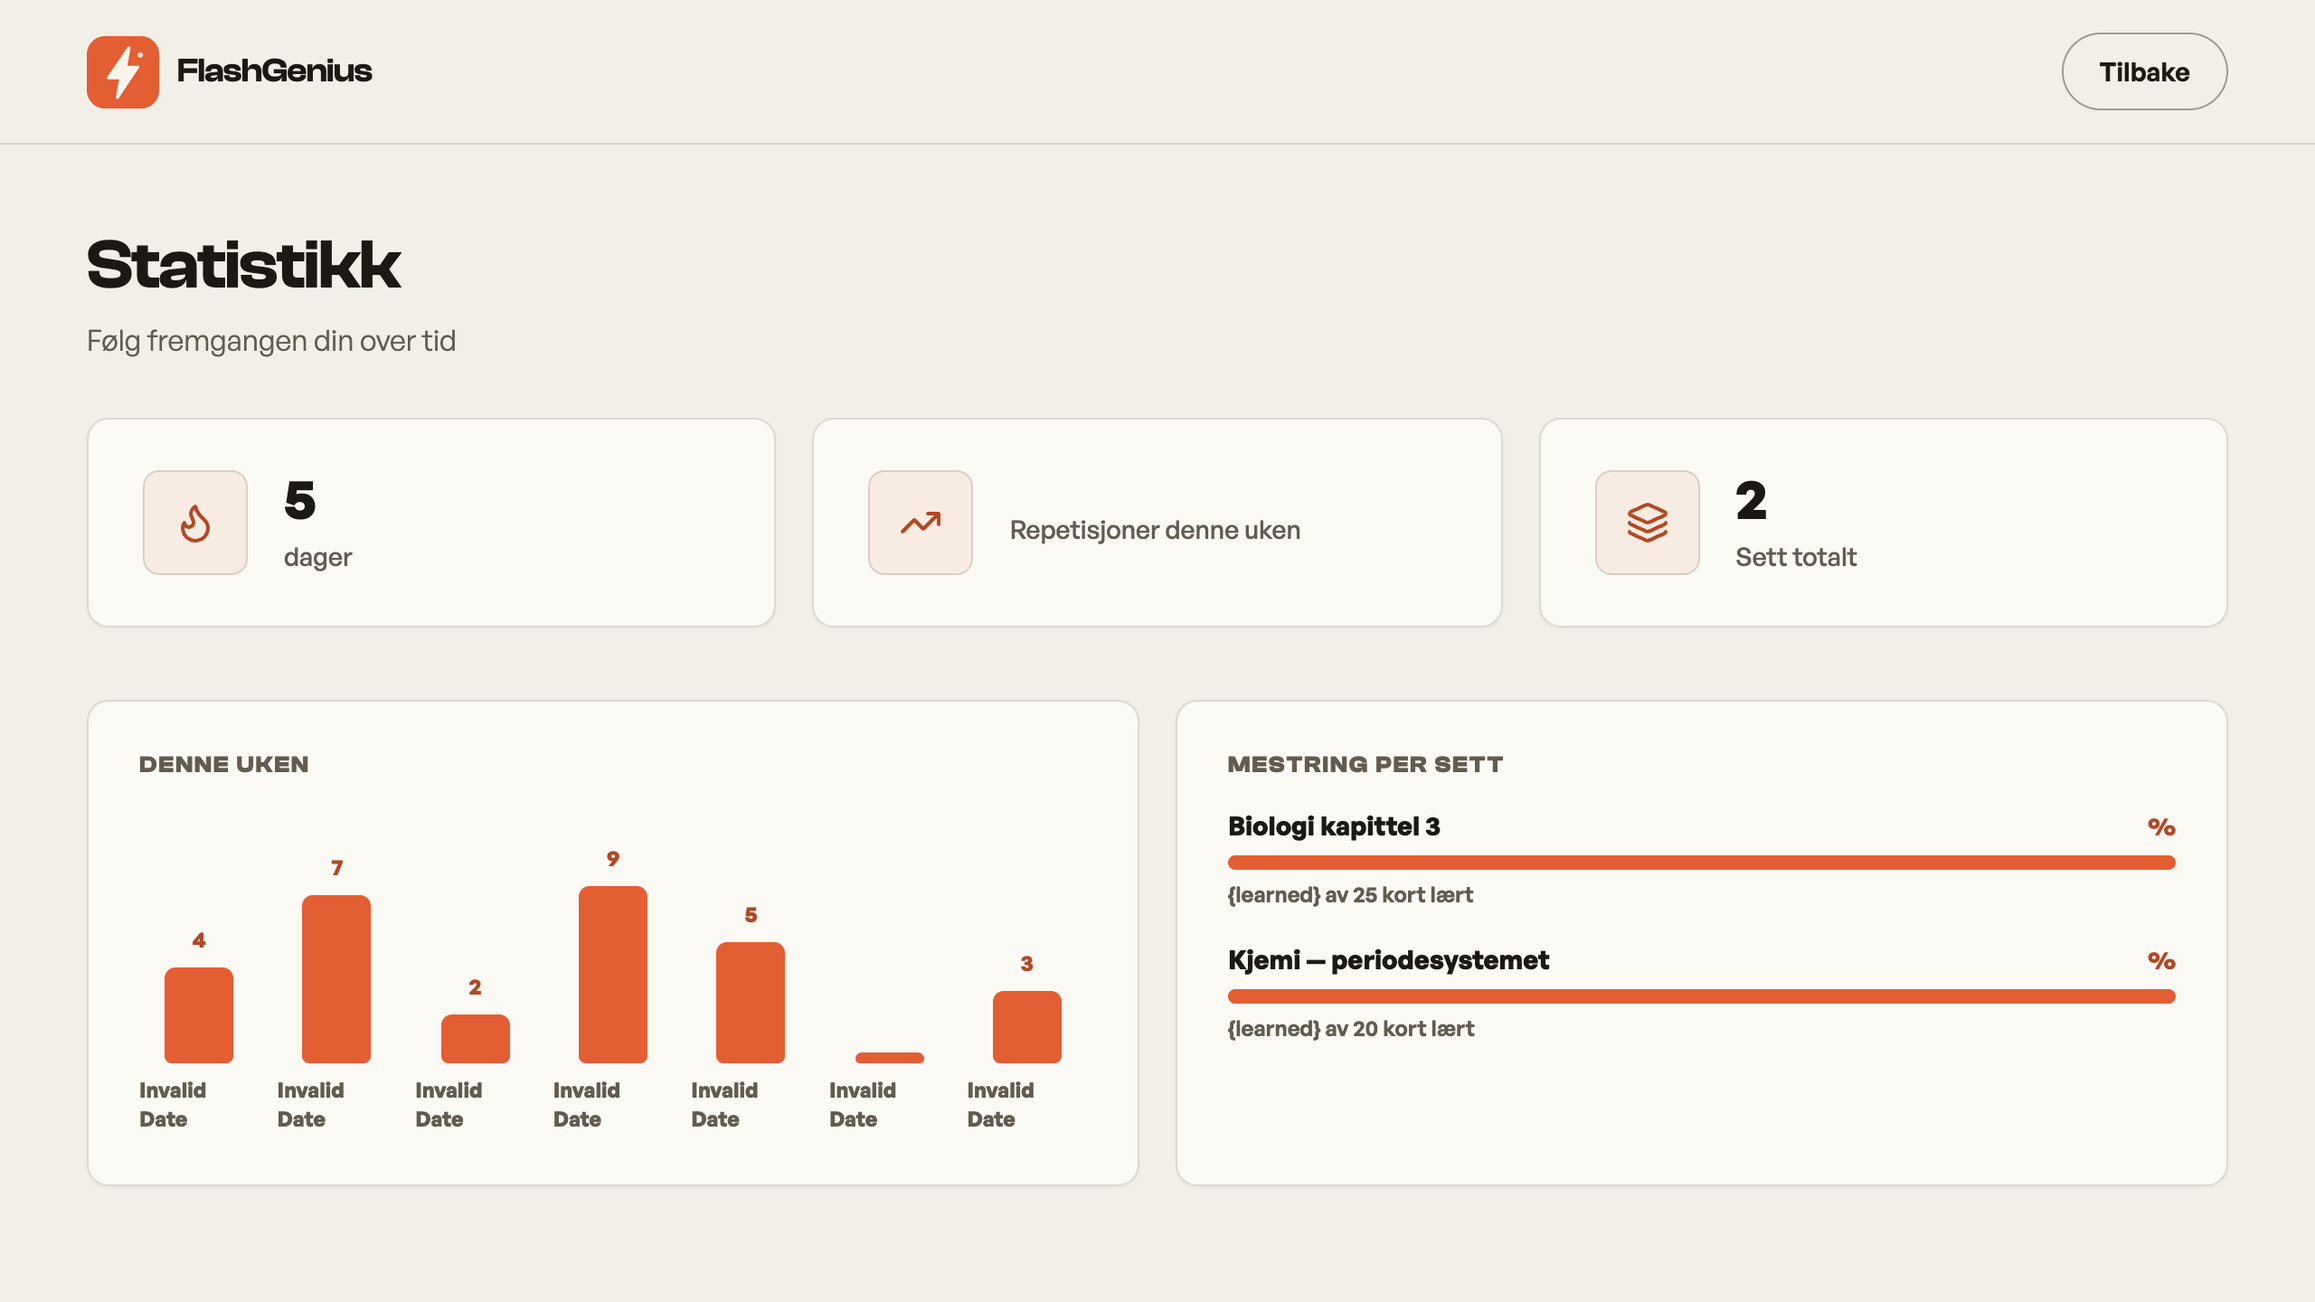
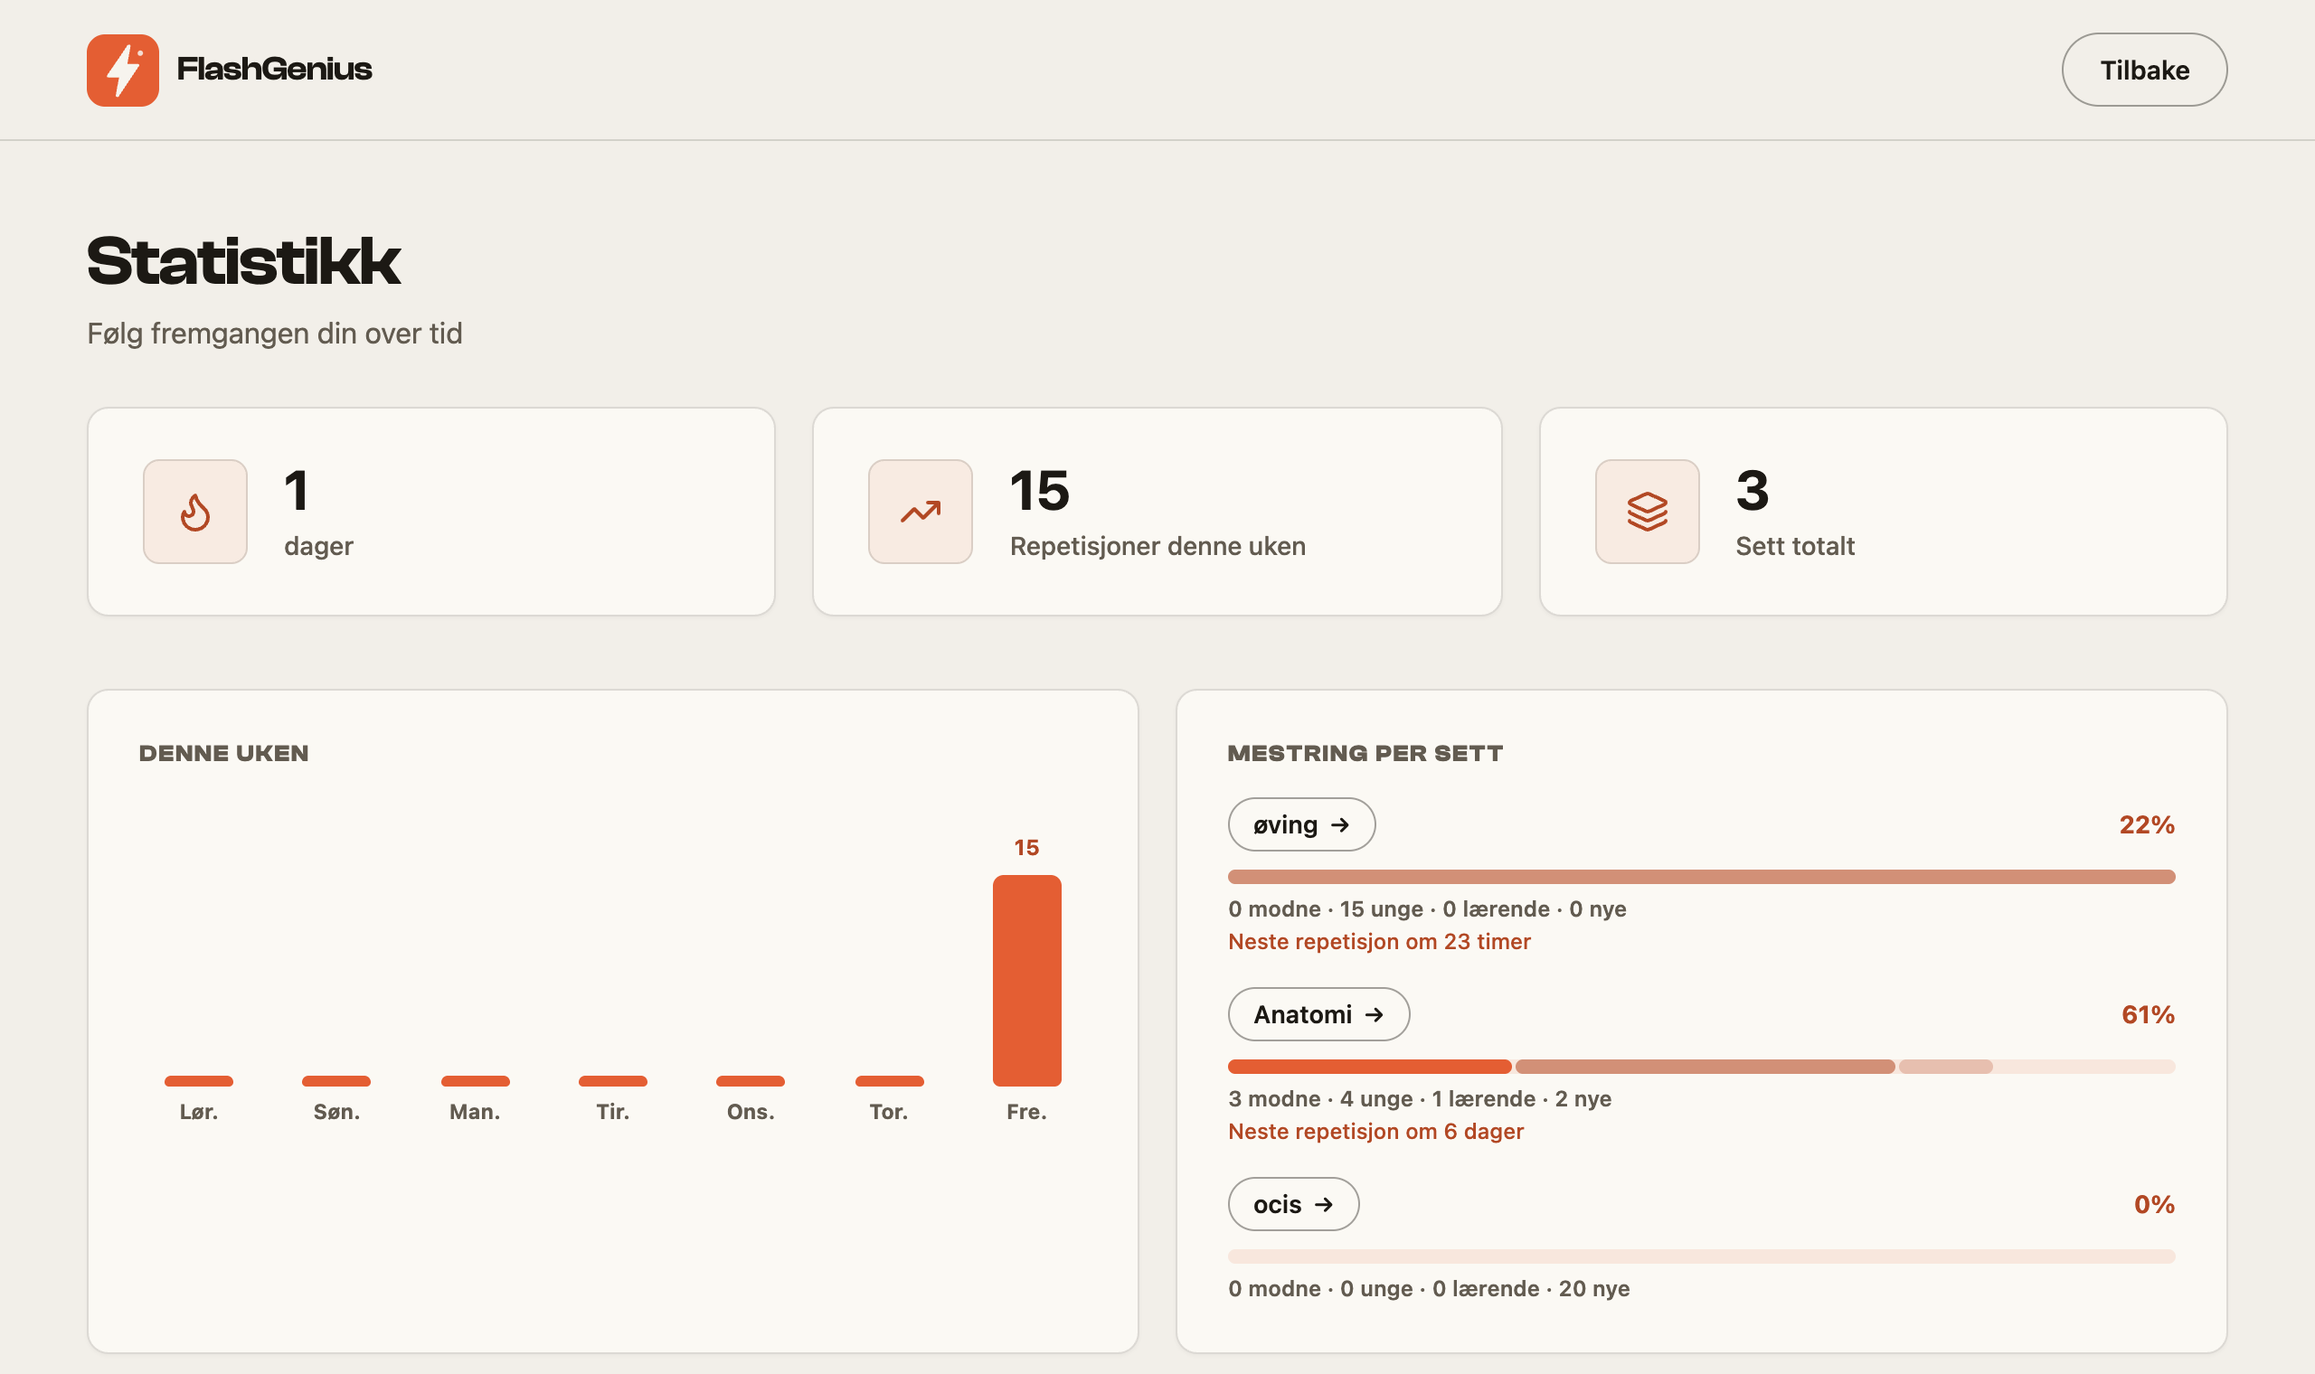
updated the statistics so it works better and more convenient for users

diff --git a/frontend/src/pages/Stats.jsx b/frontend/src/pages/Stats.jsx
@@ -7,6 +7,7 @@ import Footer from "../components/Footer";
 import { ViewerSkeleton } from "../components/Skeleton";
 import api from "../api";
 import { useLang } from "../i18n";
+import { dueIn } from "../dueTime";
 
 export default function Stats() {
     const { t, lang } = useLang();
@@ -108,15 +109,34 @@ export default function Stats() {
                                                     <Link to={`/smart/${deck.deck_id}`} className="mastery-title">{deck.title}</Link>
                                                     <span className="mastery-pct">{deck.pct}%</span>
                                                 </div>
-                                                <div className="mastery-track">
-                                                    <motion.div
-                                                        className="mastery-fill"
-                                                        initial={{ width: 0 }}
-                                                        animate={{ width: `${deck.pct}%` }}
-                                                        transition={{ delay: 0.2 + i * 0.07, duration: 0.6, ease: [0.16, 1, 0.3, 1] }}
-                                                    />
+                                                <div className="mastery-track" title={t("statsMatureHint")}>
+                                                    {["mature", "young", "learning"].map((band, b) => {
+                                                        const n = deck[band] || 0;
+                                                        if (!n) return null;
+                                                        return (
+                                                            <motion.div
+                                                                key={band}
+                                                                className={`mastery-seg seg-${band}`}
+                                                                initial={{ width: 0 }}
+                                                                animate={{ width: `${(n / deck.total) * 100}%` }}
+                                                                transition={{ delay: 0.2 + i * 0.07 + b * 0.06, duration: 0.6, ease: [0.16, 1, 0.3, 1] }}
+                                                            />
+                                                        );
+                                                    })}
                                                 </div>
-                                                <span className="mastery-sub">{t("statsLearned", { learned: deck.learned, total: deck.total })}</span>
+                                                <span className="mastery-sub">
+                                                    {t("statsBreakdown", {
+                                                        mature: deck.mature ?? 0,
+                                                        young: deck.young ?? 0,
+                                                        learning: deck.learning ?? 0,
+                                                        new: deck.new ?? deck.total,
+                                                    })}
+                                                    {deck.next_due ? (
+                                                        <em className="mastery-due">
+                                                            {t("statsNextDue", { when: dueIn(deck.next_due, t) })}
+                                                        </em>
+                                                    ) : null}
+                                                </span>
                                             </div>
                                         ))}
                                     </div>

diff --git a/frontend/src/i18n.js b/frontend/src/i18n.js
@@ -279,6 +279,22 @@ const translations = {
         statsWeekLabel: "Denne uken",
         statsWeekUnit: "{n} repetisjoner",
         statsMastery: "Mestring per sett",
+        statsBreakdown: `{mature} modne · {young} unge · {learning} lærende · {new} nye`,
+        statsMature: `Modne`,
+        statsYoung: `Unge`,
+        statsLearningCards: `Lærende`,
+        statsNew: `Nye`,
+        statsMatureHint: `Modne = kort du husker i 21 dager eller mer`,
+        statsProgress: `{started} av {total} kort påbegynt · {learned} lært`,
+        statsNextDue: `Neste repetisjon {when}`,
+        statsAllDue: `Klar til repetisjon nå`,
+        dueNow: `nå`,
+        dueSoon: `om litt`,
+        dueOneHour: `om en time`,
+        dueHours: `om {n} timer`,
+        dueTomorrow: `i morgen`,
+        dueDays: `om {n} dager`,
+        smartNextDue: `Neste kort er klart {when}.`,
         statsLearned: "{learned} av {total} kort lært",
         statsEmpty: "Ingen repetisjoner ennå. Start med smart repetisjon på et flashcard-sett!",
         statsLockedTitle: "Statistikk er en Pro-funksjon",
@@ -589,6 +605,22 @@ const translations = {
         statsWeekLabel: "This week",
         statsWeekUnit: "{n} reviews",
         statsMastery: "Mastery per set",
+        statsBreakdown: `{mature} mature · {young} young · {learning} learning · {new} new`,
+        statsMature: `Mature`,
+        statsYoung: `Young`,
+        statsLearningCards: `Learning`,
+        statsNew: `New`,
+        statsMatureHint: `Mature = cards you retain for 21 days or more`,
+        statsProgress: `{started} of {total} cards started · {learned} learned`,
+        statsNextDue: `Next review {when}`,
+        statsAllDue: `Ready to review now`,
+        dueNow: `now`,
+        dueSoon: `shortly`,
+        dueOneHour: `in an hour`,
+        dueHours: `in {n} hours`,
+        dueTomorrow: `tomorrow`,
+        dueDays: `in {n} days`,
+        smartNextDue: `The next card is ready {when}.`,
         statsLearned: "{learned} of {total} cards learned",
         statsEmpty: "No reviews yet. Start a smart review on a flashcard set!",
         statsLockedTitle: "Statistics is a Pro feature",

diff --git a/frontend/src/index.css b/frontend/src/index.css
@@ -2877,17 +2877,40 @@ input:focus, textarea:focus {
     display: flex;
     justify-content: space-between;
     align-items: center;
-    margin-bottom: 7px;
+    gap: 12px;
+    margin-bottom: 10px;
 }
 
+/* reads as a button so it's obvious the deck name starts a review */
 .mastery-title {
-    font-size: 0.9rem;
-    font-weight: 700;
+    display: inline-flex;
+    align-items: center;
+    gap: 6px;
+    padding: 6px 13px;
+    border: 1px solid var(--border-hover);
+    border-radius: 99px;
+    font-size: 0.85rem;
+    font-weight: 600;
     color: var(--text);
     text-decoration: none;
+    white-space: nowrap;
+    transition: background 180ms, color 180ms, border-color 180ms;
 }
 
-.mastery-title:hover { color: var(--accent); }
+.mastery-title::after {
+    content: "\2192";
+    font-size: 0.95em;
+    transform: translateX(0);
+    transition: transform 200ms var(--ease-out, cubic-bezier(0.22, 1, 0.36, 1));
+}
+
+.mastery-title:hover {
+    background: var(--btn-bg);
+    border-color: var(--btn-bg);
+    color: var(--btn-fg);
+}
+
+.mastery-title:hover::after { transform: translateX(3px); }
 
 .mastery-pct {
     font-size: 0.85rem;
@@ -2896,6 +2919,8 @@ input:focus, textarea:focus {
 }
 
 .mastery-track {
+    display: flex;
+    gap: 2px;
     height: 8px;
     background: rgba(217,72,15,0.1);
     border-radius: 99px;
@@ -2914,6 +2939,24 @@ input:focus, textarea:focus {
     color: var(--muted);
     font-weight: 600;
     margin-top: 6px;
+}
+
+/* one segment per maturity band, darkest for the cards that stick longest */
+.mastery-seg {
+    height: 100%;
+    border-radius: 99px;
+}
+
+.seg-mature   { background: var(--accent-bright, var(--accent)); }
+.seg-young    { background: color-mix(in srgb, var(--accent) 55%, transparent); }
+.seg-learning { background: color-mix(in srgb, var(--accent) 25%, transparent); }
+
+.mastery-due {
+    display: block;
+    margin-top: 3px;
+    font-style: normal;
+    font-weight: 500;
+    color: var(--accent);
 }
 
 .complete-icon-wrap {

diff --git a/frontend/src/pages/SmartStudy.jsx b/frontend/src/pages/SmartStudy.jsx
@@ -6,6 +6,7 @@ import Topbar from "../components/Topbar";
 import { ViewerSkeleton } from "../components/Skeleton";
 import api from "../api";
 import { useLang } from "../i18n";
+import { dueIn } from "../dueTime";
 
 const GRADES = [
     { quality: 1, key: "smartAgain", cls: "grade-again" },
@@ -18,6 +19,7 @@ export default function SmartStudy() {
     const { deckId } = useParams();
     const { t } = useLang();
     const [queue, setQueue] = useState(null);
+    const [nextDue, setNextDue] = useState(null);
     const [locked, setLocked] = useState(false);
     const [flipped, setFlipped] = useState(false);
     const [reviewed, setReviewed] = useState(0);
@@ -25,7 +27,7 @@ export default function SmartStudy() {
 
     useEffect(() => {
         api.get(`/flashcards/decks/${deckId}/due`)
-            .then((res) => setQueue(res.data.due))
+            .then((res) => { setQueue(res.data.due); setNextDue(res.data.next_due || null); })
             .catch((err) => {
                 if (err.response?.status === 403) setLocked(true);
             })
@@ -91,7 +93,10 @@ export default function SmartStudy() {
                         </div>
                         <div className="complete-badge">{t("smartTitle")}</div>
                         <h2>{reviewed > 0 ? t("smartDone") : t("smartNothingDue")}</h2>
-                        <p>{reviewed > 0 ? t("smartDoneText", { n: reviewed }) : t("smartNothingDueText")}</p>
+                        <p>
+                            {reviewed > 0 ? t("smartDoneText", { n: reviewed }) : t("smartNothingDueText")}
+                            {nextDue ? ` ${t("smartNextDue", { when: dueIn(nextDue, t) })}` : ""}
+                        </p>
                         <div className="study-nav" style={{ marginTop: "8px" }}>
                             <Link to="/" className="btn-primary">{t("backToOverview")}</Link>
                         </div>

diff --git a/frontend/src/dueTime.js b/frontend/src/dueTime.js
@@ -1,0 +1,21 @@
+
+export function dueIn(iso, t) {
+    if (!iso) return null;
+  
+    const due = new Date(/[zZ]|[+-]\d{2}:?\d{2}$/.test(iso) ? iso : `${iso}Z`);
+    if (Number.isNaN(due.getTime())) return null;
+
+    const ms = due.getTime() - Date.now();
+    if (ms <= 0) return t("dueNow");
+
+    const hours = ms / 3600000;
+    if (hours < 1) return t("dueSoon");
+    if (hours < 24) {
+        const n = Math.max(1, Math.round(hours));
+        return n === 1 ? t("dueOneHour") : t("dueHours", { n });
+    }
+
+    const days = Math.round(hours / 24);
+    if (days === 1) return t("dueTomorrow");
+    return t("dueDays", { n: days });
+}

diff --git a/backend/routers/flashcards.py b/backend/routers/flashcards.py
@@ -14,6 +14,9 @@ from database import get_connection
 load_dotenv()
 
 router = APIRouter()
+
+# An interval of 21 days or more counts as mature, the same line Anki draws.
+MATURE_DAYS = 21
 SECRET_KEY = os.getenv("SECRET_KEY", "fallback_secret")
 
 TIER_ORDER = {"free": 0, "plus": 1, "pro": 2, "ultra": 3}
@@ -531,10 +534,17 @@ def get_due_cards(deck_id: int, authorization: str = Header(...)):
     rows = cur.fetchall()
     cur.execute("SELECT count(*) FROM flashcards WHERE deck_id = %s", (deck_id,))
     total = cur.fetchone()[0]
+    cur.execute("""
+        SELECT min(p.due) FROM card_progress p
+        JOIN flashcards f ON f.id = p.card_id
+        WHERE f.deck_id = %s AND p.user_id = %s AND p.due > NOW()
+    """, (deck_id, user_id))
+    nxt = cur.fetchone()[0]
     cur.close()
     conn.close()
     return {
         "total": total,
+        "next_due": nxt.isoformat() if nxt else None,
         "due": [{"id": r[0], "question": r[1], "answer": r[2], "reps": r[4] or 0} for r in rows],
     }
 
@@ -625,19 +635,42 @@ def get_stats(authorization: str = Header(...)):
             else:
                 break
 
+    # Cards are graded on how far the SM-2 interval has stretched rather than on a
+    # single pass/fail threshold, so progress moves from the very first review.
+    # Buckets follow Anki: mature at an interval of 21 days or more, young below
+    # that, learning while the interval is still under a day.
     cur.execute("""
         SELECT d.id, d.title,
                count(f.id) AS total,
-               count(p.id) FILTER (WHERE p.reps >= 2) AS learned
+               count(p.id) FILTER (WHERE p.interval_days >= %s)              AS mature,
+               count(p.id) FILTER (WHERE p.interval_days >= 1
+                                    AND p.interval_days < %s)                AS young,
+               count(p.id) FILTER (WHERE p.id IS NOT NULL
+                                    AND p.interval_days < 1)                 AS learning,
+               count(f.id) - count(p.id)                                     AS fresh,
+               min(p.due) FILTER (WHERE p.due > NOW())                       AS next_due,
+               avg(
+                   CASE
+                       WHEN p.id IS NULL           THEN 0
+                       WHEN p.interval_days < 1    THEN 0.1
+                       ELSE least(1.0, ln(1 + p.interval_days) / ln(1 + %s))
+                   END
+               ) AS strength
         FROM decks d
         JOIN flashcards f ON f.deck_id = d.id
         LEFT JOIN card_progress p ON p.card_id = f.id AND p.user_id = %s
         WHERE d.user_id = %s AND d.type = 'flashcards'
         GROUP BY d.id, d.title
         ORDER BY d.created_at DESC
-    """, (user_id, user_id))
+    """, (MATURE_DAYS, MATURE_DAYS, MATURE_DAYS, user_id, user_id))
     mastery = [
-        {"deck_id": r[0], "title": r[1], "total": r[2], "learned": r[3], "pct": round(r[3] / r[2] * 100) if r[2] else 0}
+        {
+            "deck_id": r[0], "title": r[1], "total": r[2],
+            "mature": r[3], "young": r[4], "learning": r[5], "new": r[6],
+            "next_due": r[7].isoformat() if r[7] else None,
+            "pct": round(float(r[8]) * 100) if r[8] is not None else 0,
+            "learned": r[3],
+        }
         for r in cur.fetchall()
     ]
 

diff --git a/README.md b/README.md
@@ -60,7 +60,7 @@ Plus everything around it:
 
 -  **Powered by Llama 3.x** via the Groq API, with robust JSON parsing (retry + salvage) so generations don't fail — Pro/Ultra requests use the larger 70B model
 -  **Smart review** — an SM-2 spaced-repetition engine schedules each card exactly when you're about to forget it
--  **Statistics** — day streaks, a weekly review chart, and per-deck mastery tracking
+-  **Statistics** — day streaks, a weekly review chart, and per-deck mastery. Mastery is graded on how far each card's SM-2 interval has stretched rather than on a pass/fail threshold, so progress moves from the first review onwards, and every deck shows its card mix (mature / young / learning / new, using Anki's 21-day maturity line) plus when it is next due
 -  **Folders** — organize your sets into color-coded animated folders
 -  **File upload** — extract notes straight from PDF, TXT, or MD files in the browser
 -  **Set sharing** — Ultra users can publish read-only links to any set
@@ -120,7 +120,7 @@ Plus everything around it:
   <tr>
     <td width="50%">
       <strong>Statistics</strong><br/>
-      <img src="screenshots/stats.png" alt="Streaks, weekly chart and per-deck mastery" />
+      <img src="screenshots/stats.png" alt="Streaks, weekly chart and per-deck mastery with the card mix per deck" />
     </td>
     <td width="50%">
       <strong>Pricing</strong><br/>
